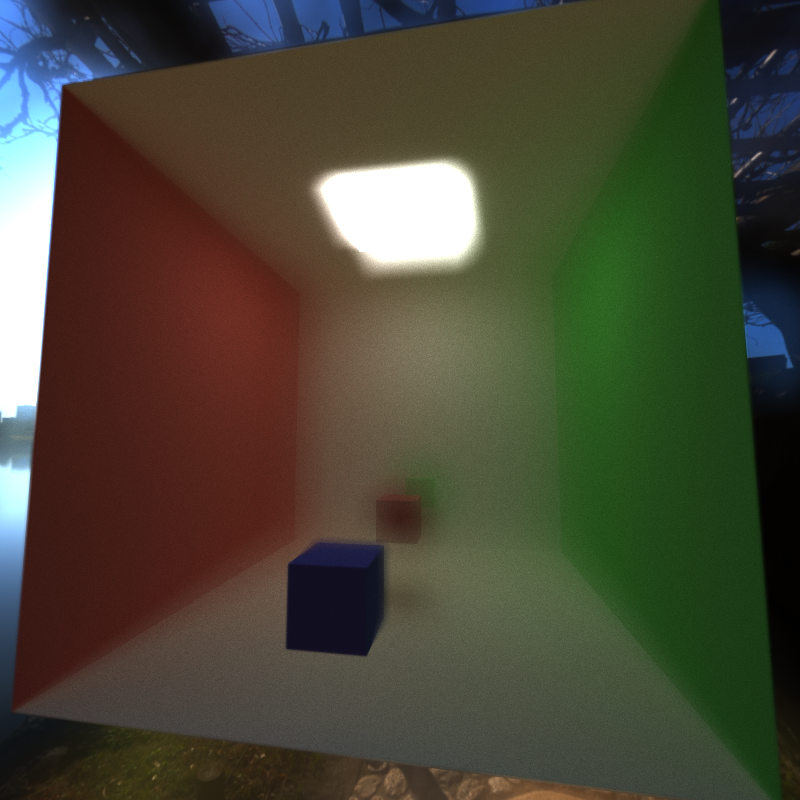
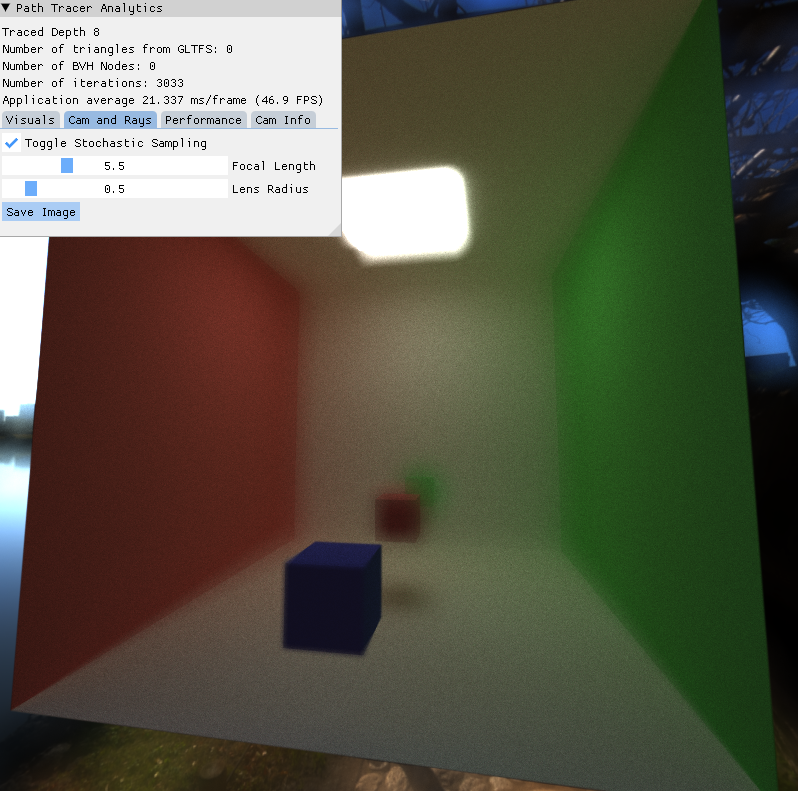
Code cleanup, adding timer output toggle to imgui, and new dof images

diff --git a/src/main.cpp b/src/main.cpp
@@ -68,6 +68,7 @@ void mouseButtonCallback(GLFWwindow* window, int button, int action, int mods);
 // Extra imgui vars
 bool isCompact = true;
 bool isMatSort = false;
+bool isTimed = false;
 bool isStochastic = true;
 std::string envmapPath = "";
 std::string selectedPath = "";
@@ -464,6 +465,7 @@ void RenderImGui()
         {
             ImGui::Checkbox("Toggle Stream Compaction", &isCompact);
             ImGui::Checkbox("Toggle Material Sorting", &isMatSort);
+            ImGui::Checkbox("Toggle Render Timings", &isTimed);
             ImGui::EndTabItem();
         }
         if (ImGui::BeginTabItem("Cam Info"))
@@ -632,7 +634,7 @@ void runCuda()
 
         // execute the kernel
         int frame = 0;
-        pathtrace(pbo_dptr, frame, iteration, isCompact, isMatSort, isStochastic, drawMode);
+        pathtrace(pbo_dptr, frame, iteration, isCompact, isMatSort, isStochastic, drawMode, isTimed);
 
         // unmap buffer object
         cudaGLUnmapBufferObject(pbo);

diff --git a/src/pathtrace.h b/src/pathtrace.h
@@ -8,7 +8,7 @@
 void InitDataContainer(GuiDataContainer* guiData);
 void pathtraceInit(Scene *scene, const std::string& envMapPath);
 void pathtraceFree(bool camChange);
-void pathtrace(uchar4 *pbo, int frame, int iteration, bool isCompact, bool isMatSort, bool isStochastic, DrawMode drawMode);
+void pathtrace(uchar4 *pbo, int frame, int iteration, bool isCompact, bool isMatSort, bool isStochastic, DrawMode drawMode, bool isTimed);
 
 inline PerformanceTimer& timer()
 {

diff --git a/src/GLTFManager.h b/src/GLTFManager.h
@@ -76,9 +76,9 @@ public:
         float roughness = 1.0f;
         float ao = 1.0f;
         // Paths to external textures
-        std::string base_color_texture_path;
-        std::string metallic_roughness_texture_path;
-        std::string normal_texture_path;
+        std::string base_color_texture_path = "";
+        std::string metallic_roughness_texture_path = "";
+        std::string normal_texture_path = "";
     };
 
     struct TextureData {

diff --git a/src/scene.cpp b/src/scene.cpp
@@ -50,7 +50,7 @@ void Scene::loadFromJSON(const std::string& jsonName)
         const auto& name = item.key();
         const auto& p = item.value();
         Material newMaterial{};
-        // TODO: handle materials loading differently
+        // material loading
         if (p["TYPE"] == "Diffuse")
         {
             const auto& col = p["RGB"];
